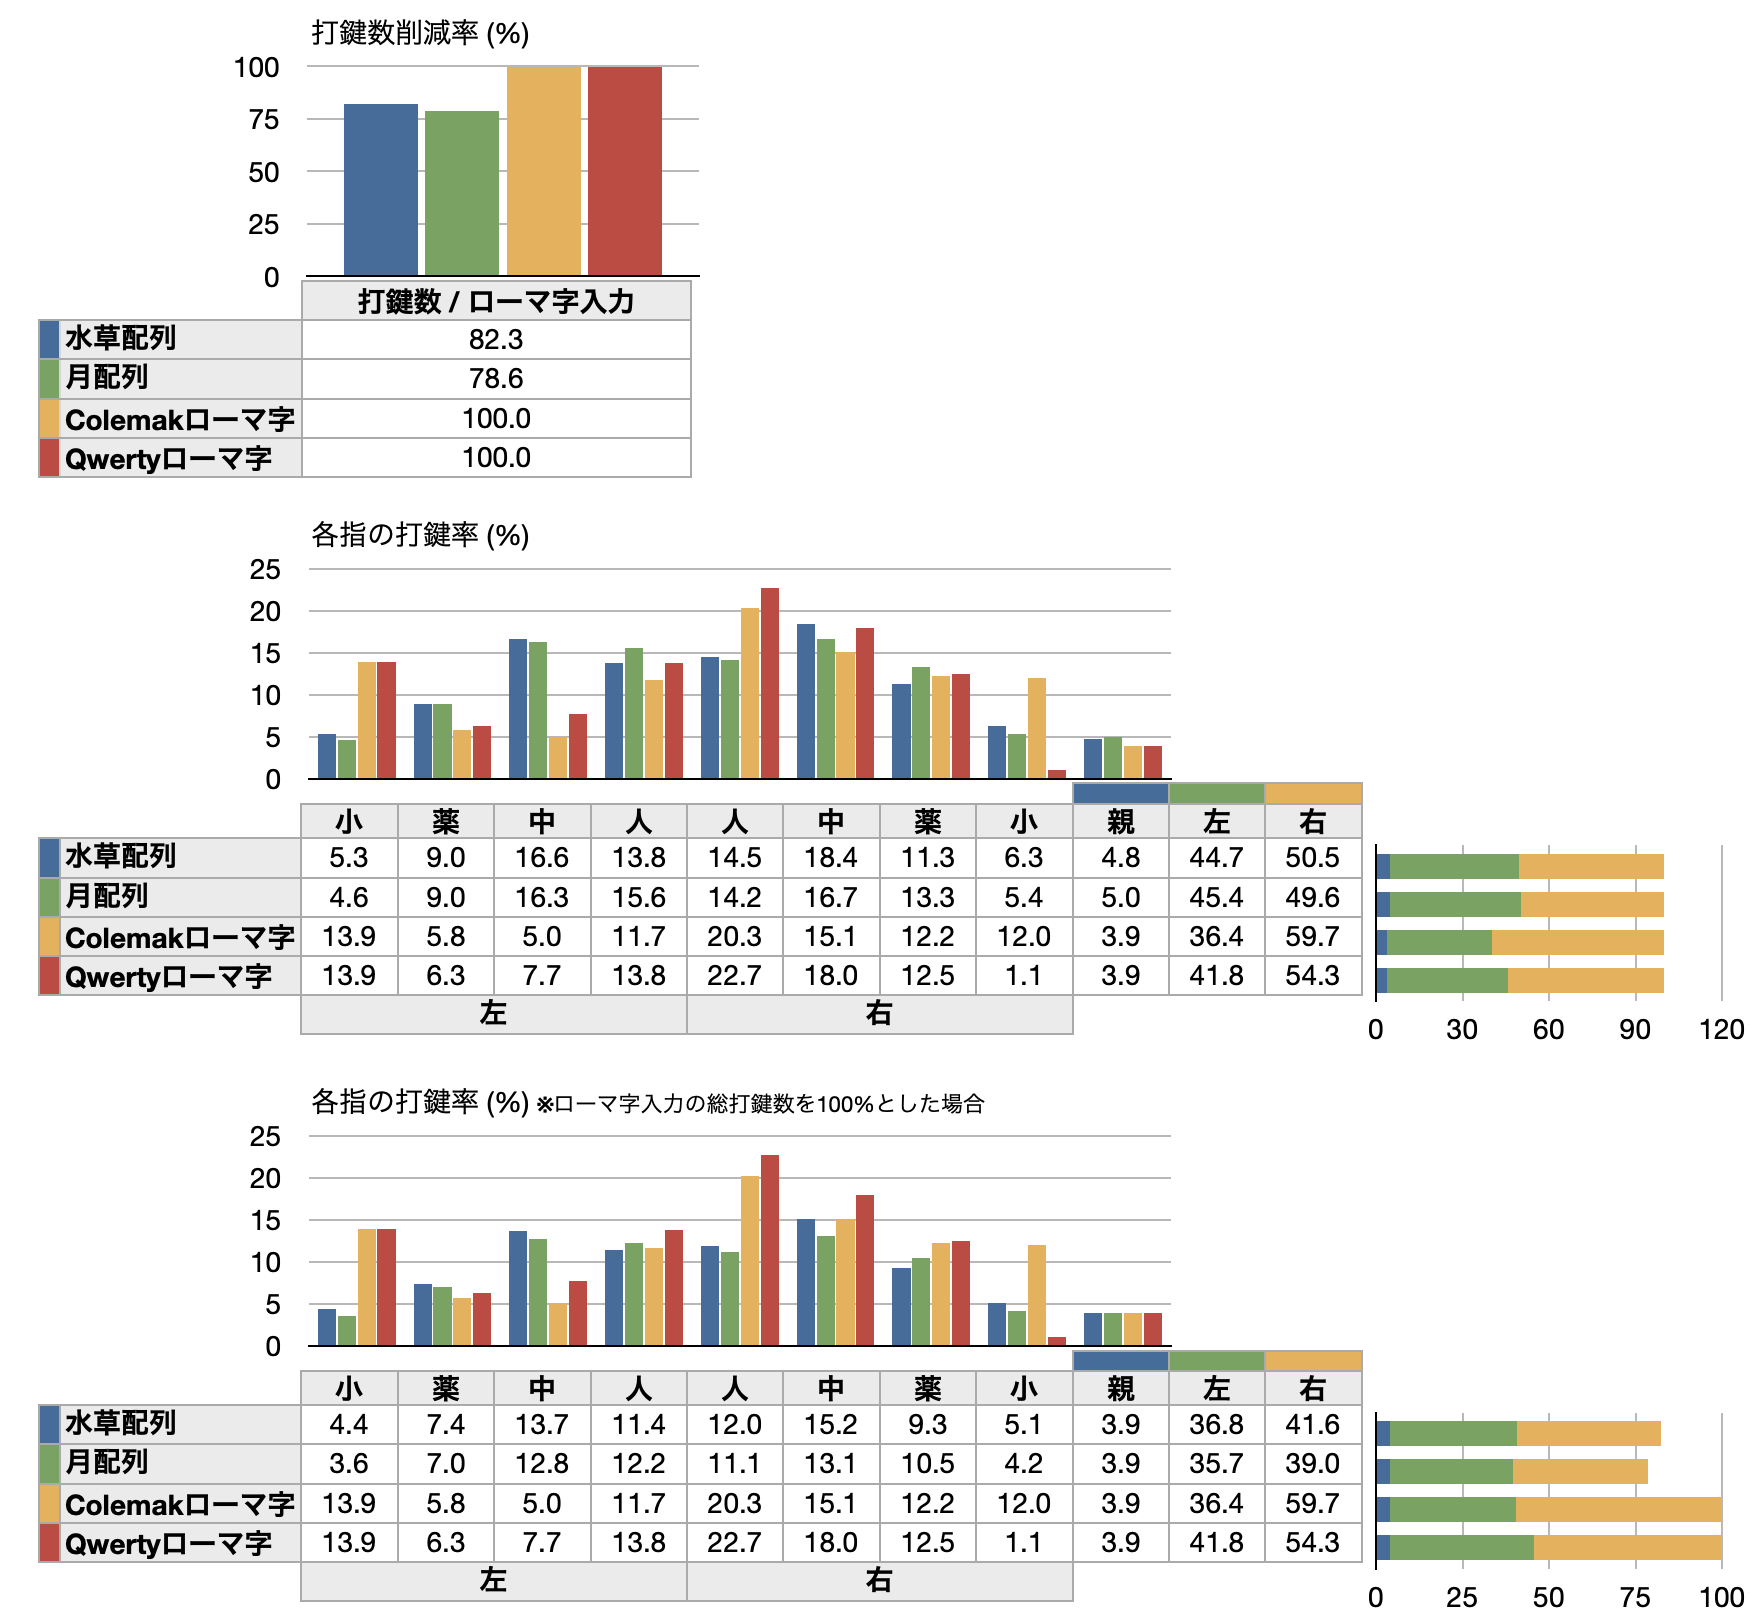
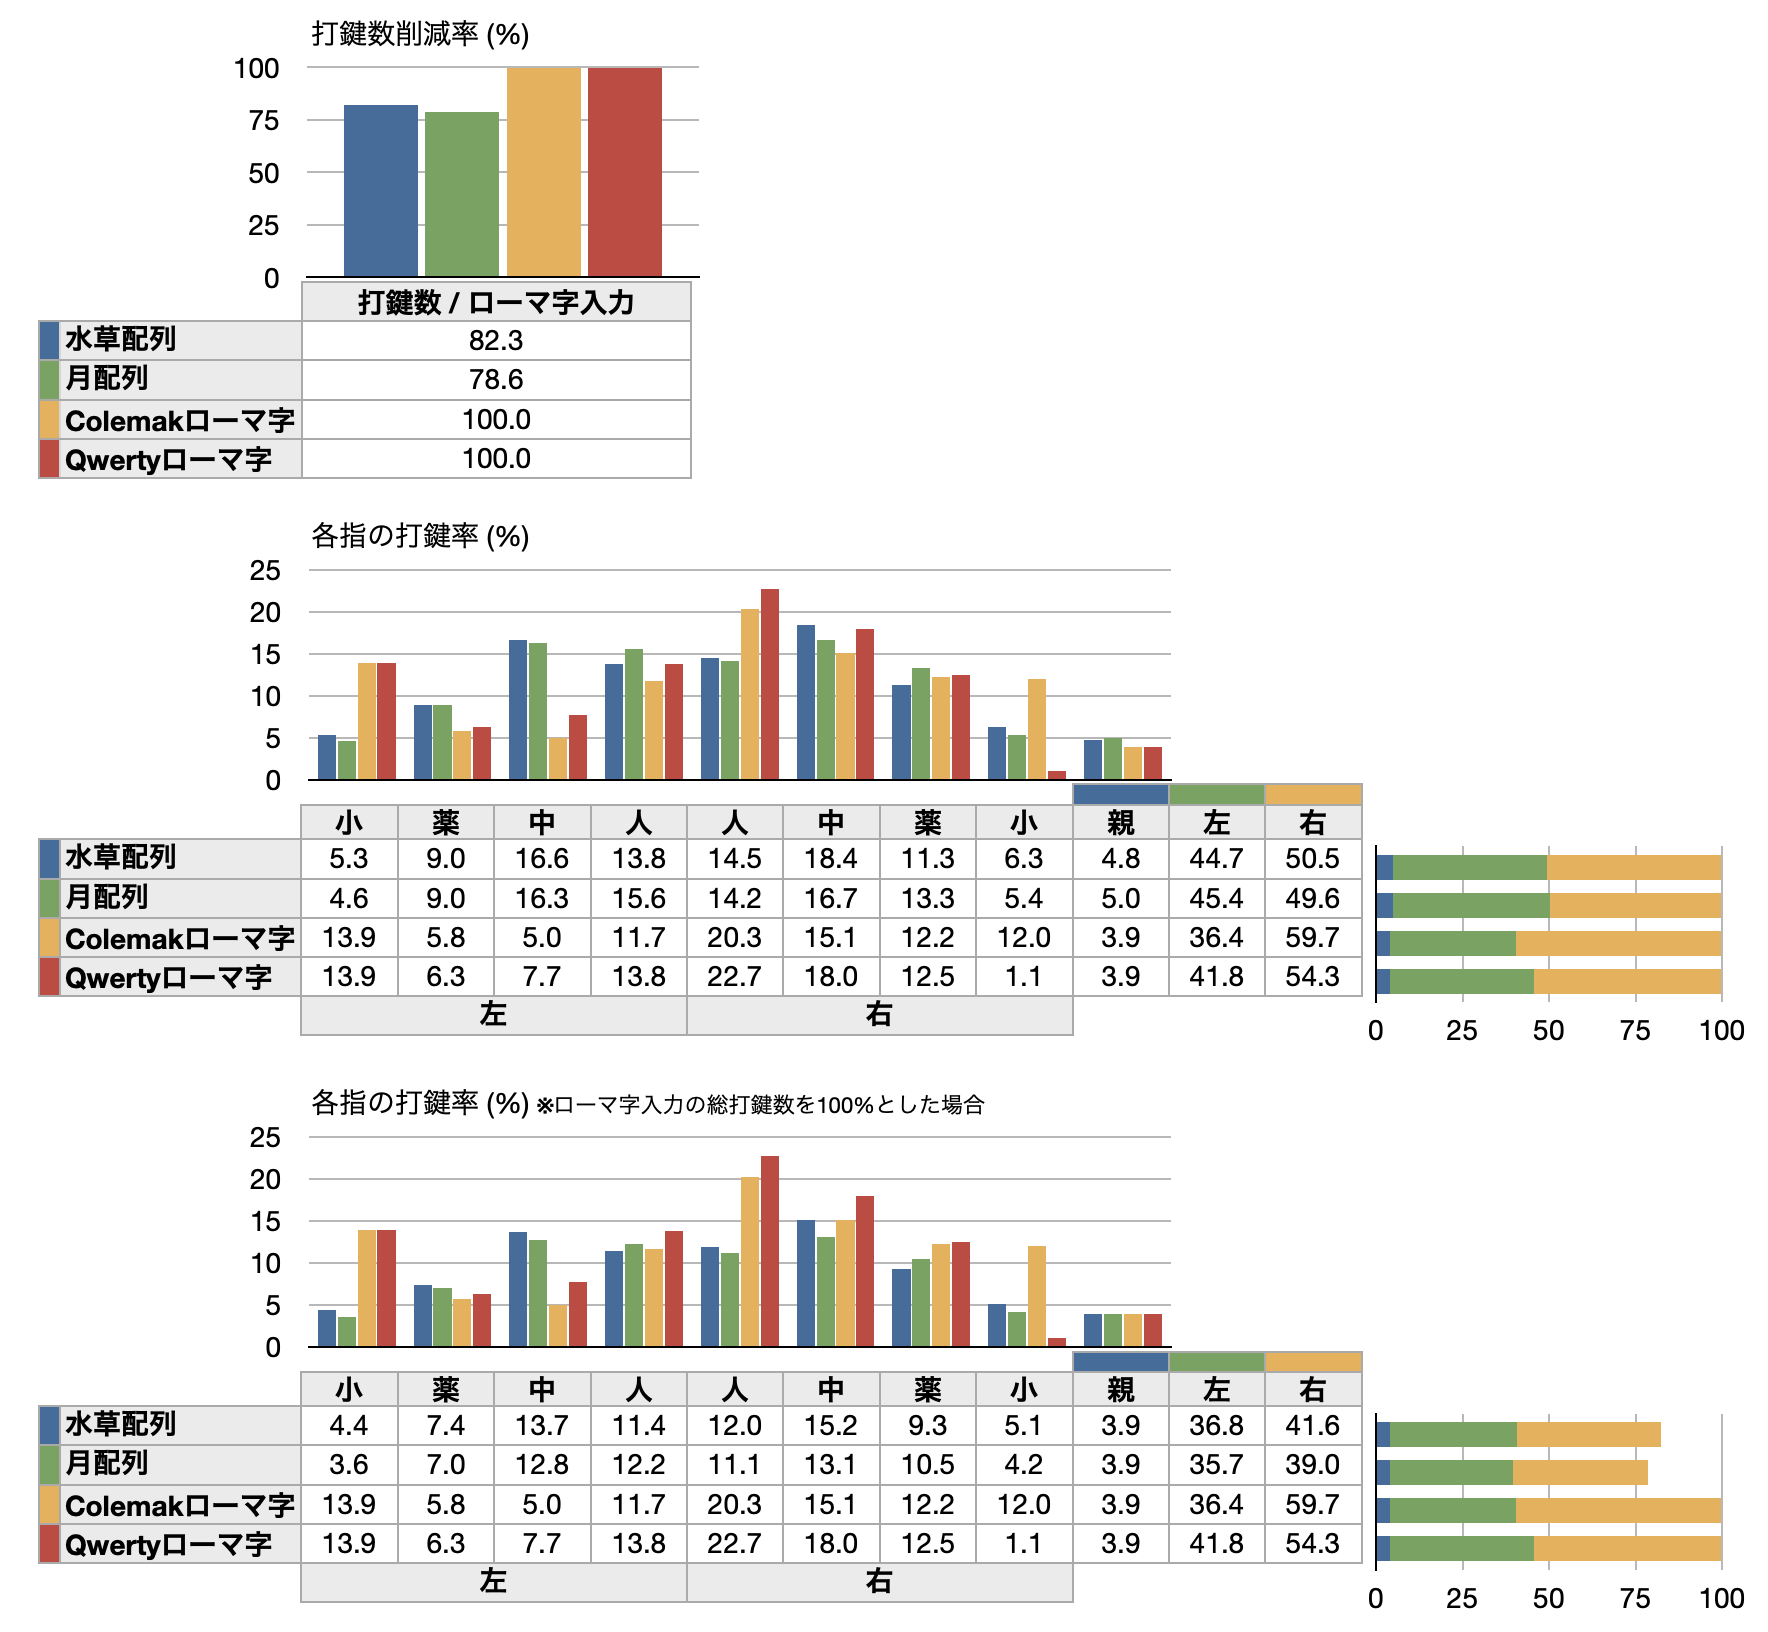
[Update] イメージ差し替え

diff --git a/README.md b/README.md
@@ -22,7 +22,7 @@
 ローマ字は日本式を想定していますが、ヘボン式の方が入力しやすい文字はヘボン式を優先しました。「ん」は基本[n]で、状況に応じて[n][n]を使用するとしました。  
 実際の使用環境に近づけるため、句読点や括弧の後にスペースキーでかな漢字変換 (変換効率100%、つまり一発で確定) を行うことを想定しています。
 
-<img alt="打鍵数削減率" src="./images/hikaku_daken.png" width="882">
+<img alt="打鍵数削減率" src="./images/hikaku_daken.png" width="884">
 
 <img alt="各指連続打鍵率" src="./images/hikaku_renzoku.png" width="650">
 
@@ -63,4 +63,3 @@
 
 ## リンク
 - [全角英数記号や半角カタカナが判別しやすい等幅フォント「Cyroit」](https://omonomo.github.io/Cyroit/): 合成フォントを作ってみました。
-
